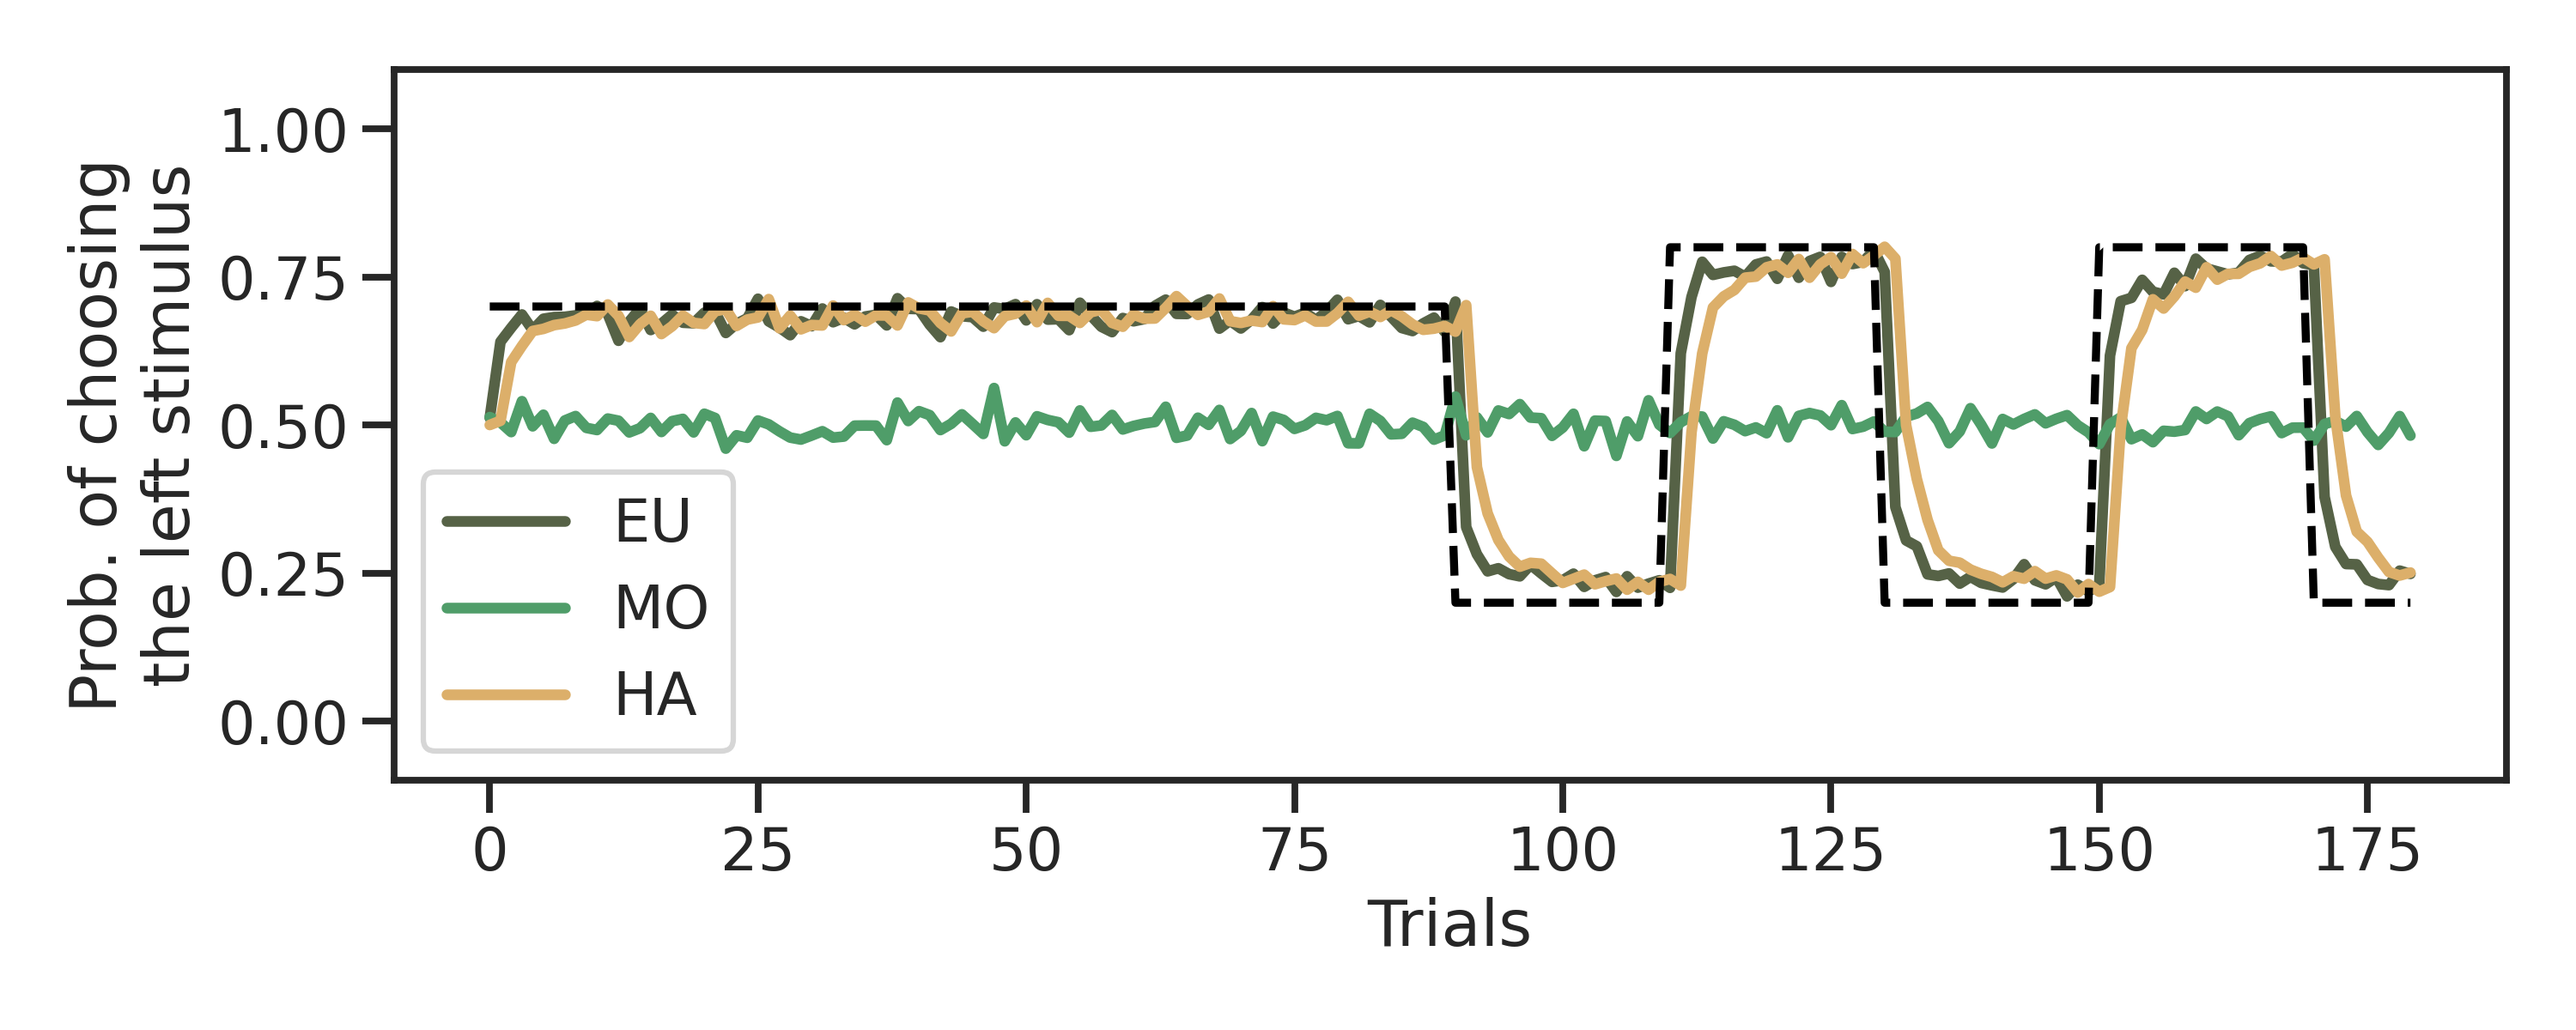
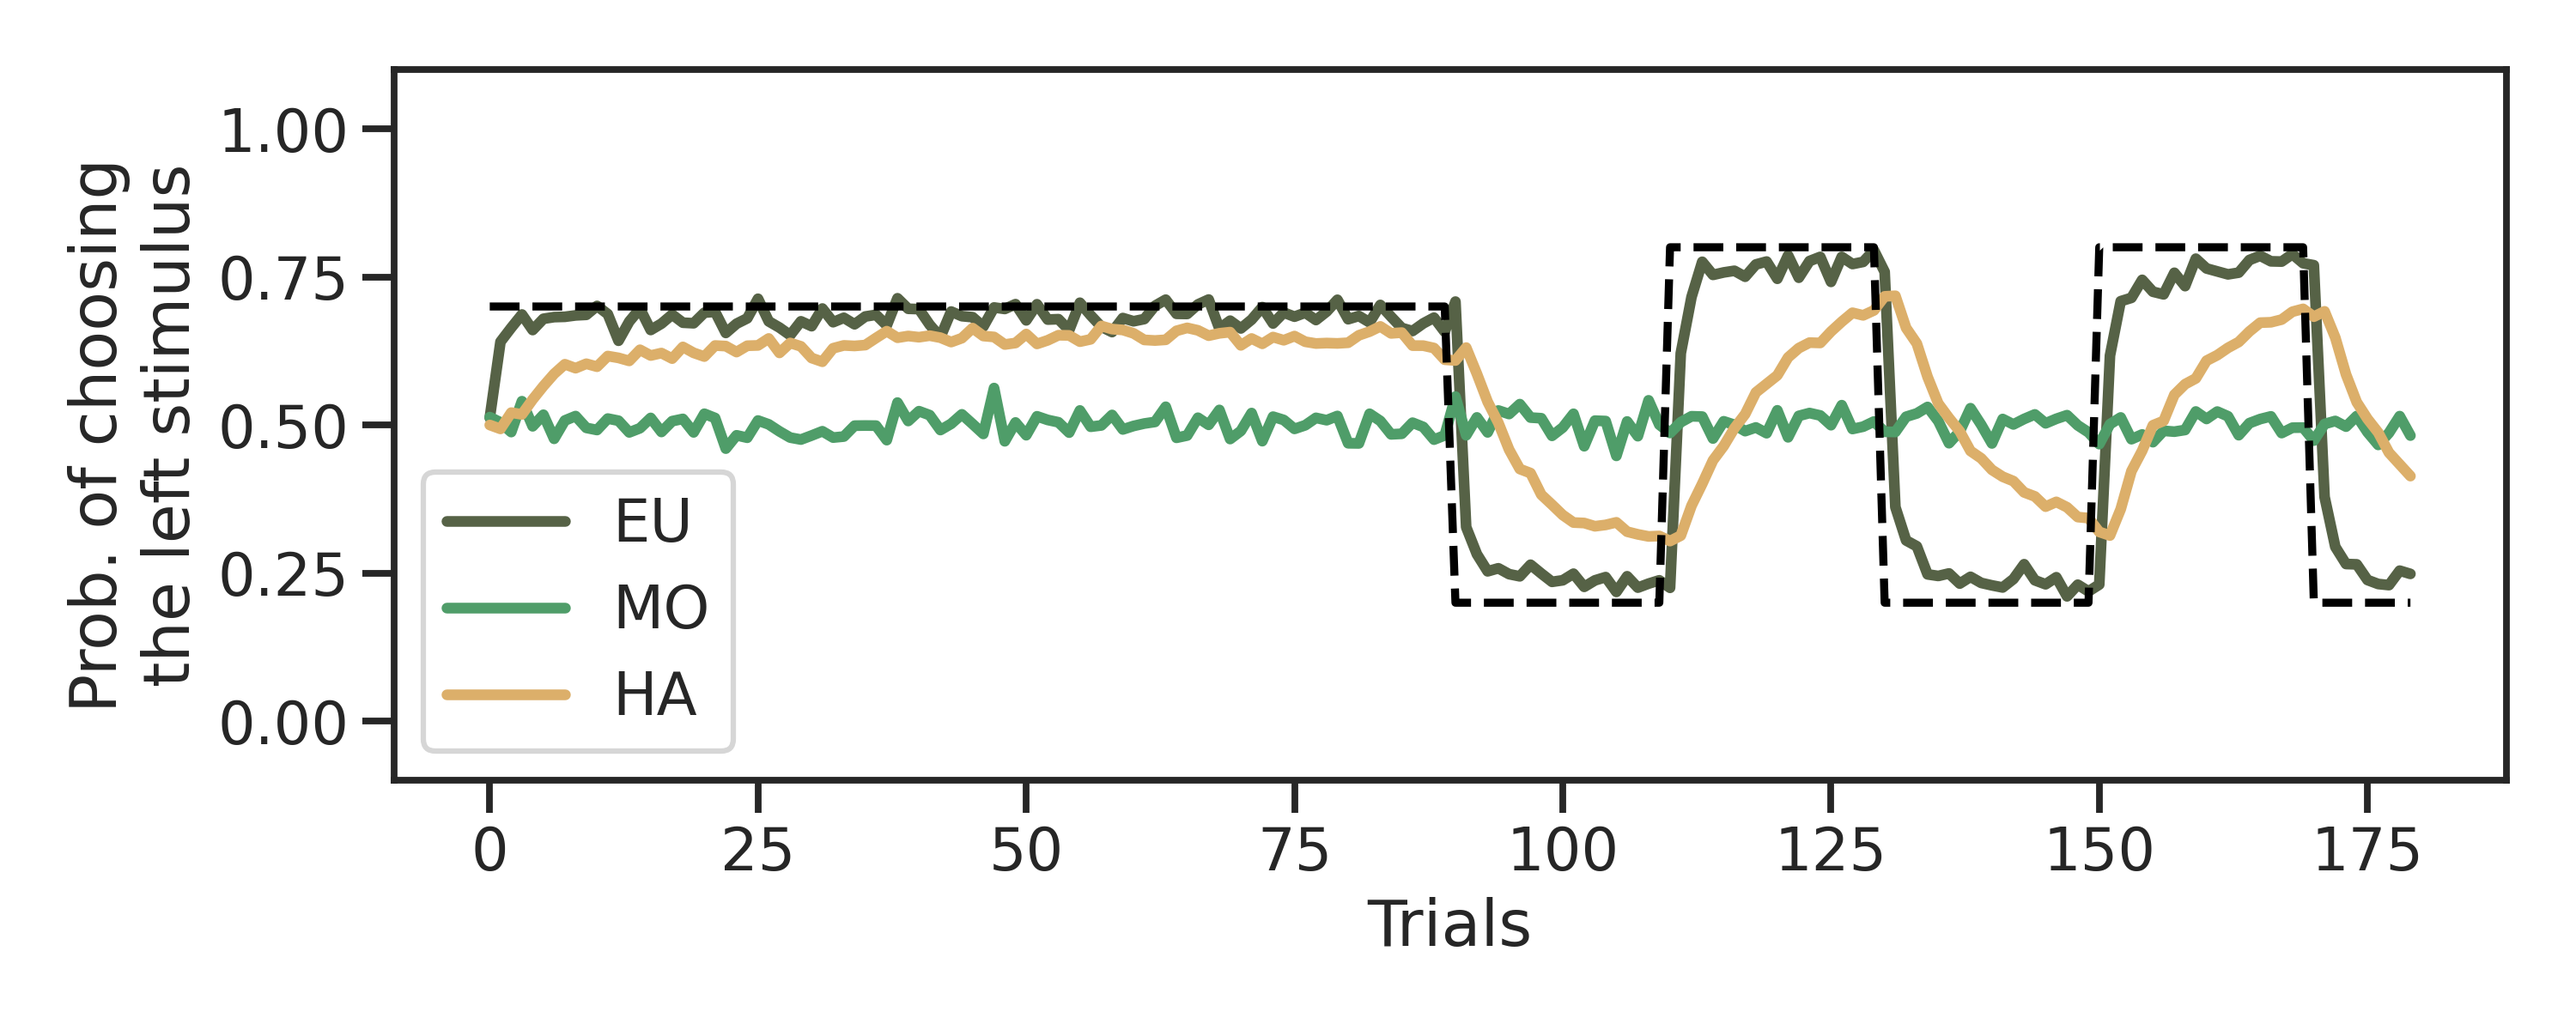
update figure

diff --git a/m3_visualize.py b/m3_visualize.py
@@ -323,7 +323,7 @@ def pred_biFactor():
 
 def pi_effect():
 
-    fname = f'{path}/simulations/exp1data/MixPol/simsubj-exp1data-sta_first-HC.csv'
+    fname = f'{path}/simulations/exp1data/MixPol/simsubj-exp1data-sta_first-PAT.csv'
     data = pd.read_csv(fname)
 
     data = data.groupby(by=['trials'])[['l1_effect', 'l2_effect', 'l3_effect']].mean()
